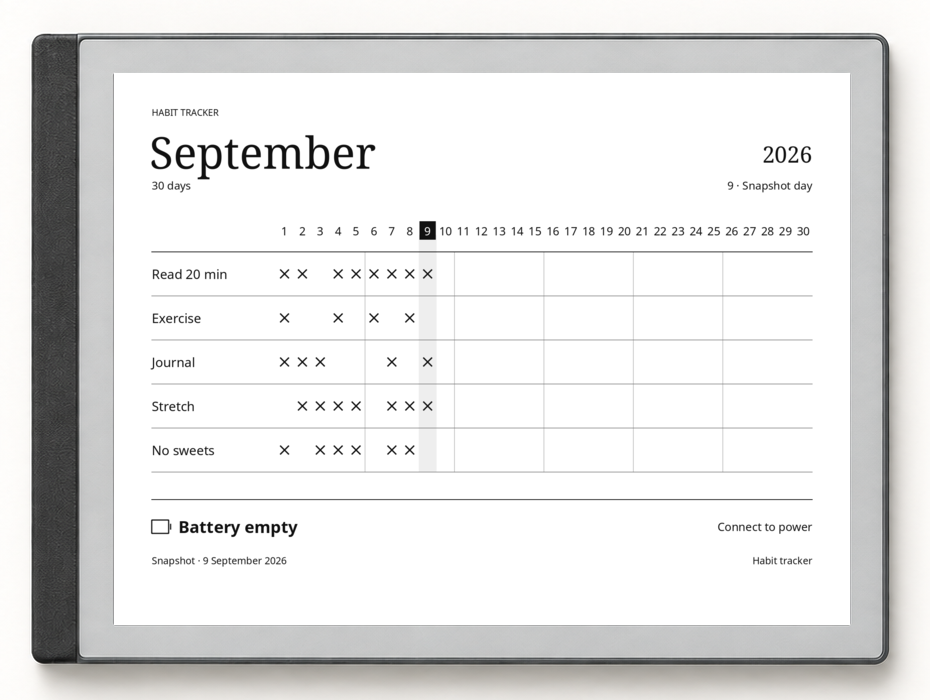
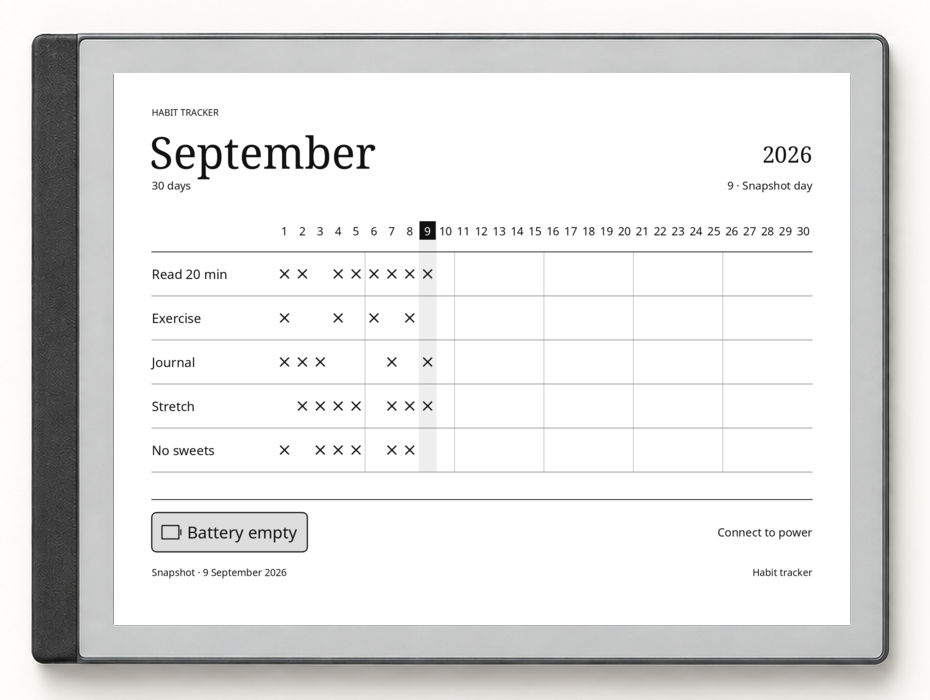
refine(remarkable): add quiet sans power-state badges
Use compact rounded badges with state-specific fills, regular-weight labels, and extra vertical padding. Refresh the shared renderer, host shim, and screenshots.

Changed region(s): [[0.1559, 0.72, 0.343, 0.84], [0.7796, 0.75, 0.8731, 0.84]]

diff --git a/apps/remarkable/src/js/SuspendDraw.js b/apps/remarkable/src/js/SuspendDraw.js
@@ -8,7 +8,7 @@ function computeSignature(habits, today) {
     const month = today.getMonth();
     const visible = habits.filter((h) => !h.isPrivate);
 
-    const parts = [`power-images-ledger-v1|${year}-${month}-${currentDay}`];
+    const parts = [`power-images-ledger-v2|${year}-${month}-${currentDay}`];
 
     for (let i = 0; i < visible.length; i++) {
         const h = visible[i];
@@ -69,26 +69,16 @@ function draw(
         today,
     );
     drawLine(ctx, 96, 1085, 1776, 1085, "#111111", 2);
-    drawStateIcon(ctx, state, 96, 1136);
-    drawText(
-        ctx,
-        states[state][0],
-        state === "empty" ? 164 : 152,
-        1154,
-        42,
-        "sans-serif",
-        "left",
-        true,
-    );
-    drawText(ctx, states[state][1], 1776, 1154, 29, "sans-serif", "right");
+    drawStateBadge(ctx, state, states[state][0]);
+    drawText(ctx, states[state][1], 1776, 1168, 29, "sans-serif", "right");
     drawText(
         ctx,
         `Snapshot · ${today.getDate()} ${monthTitle} ${today.getFullYear()}`,
         96,
-        1240,
+        1270,
         25,
     );
-    drawText(ctx, "Habit tracker", 1776, 1240, 25, "sans-serif", "right");
+    drawText(ctx, "Habit tracker", 1776, 1270, 25, "sans-serif", "right");
     ctx.restore();
 }
 
@@ -100,10 +90,10 @@ const drawText = (
     size,
     family = "sans-serif",
     align = "left",
-    bold = false,
+    color = "#111111",
 ) => {
-    ctx.fillStyle = "#111111";
-    ctx.font = `${bold ? "bold " : ""}${size}px ${family}`;
+    ctx.fillStyle = color;
+    ctx.font = `${size}px ${family}`;
     ctx.textAlign = align;
     ctx.fillText(value, x, y);
 };
@@ -228,10 +218,57 @@ const drawPolyline = (ctx, points) => {
     ctx.stroke();
 };
 
-const drawStateIcon = (ctx, state, x, y) => {
+const drawStateBadge = (ctx, state, label) => {
+    const background = { sleep: "#ffffff", off: "#111111", empty: "#dddddd" }[
+        state
+    ];
+    const foreground = state === "off" ? "#ffffff" : "#111111";
+    const iconWidth = state === "empty" ? 50 : 38;
+    const padding = 26;
+    const gap = 14;
+    const left = 96;
+    const top = 1118;
+    const height = 100;
+    const centerY = top + height / 2;
+    ctx.font = "42px sans-serif";
+    const width = padding * 2 + iconWidth + gap + ctx.measureText(label).width;
+    roundedRectangle(ctx, left, top, width, height, 14);
+    ctx.fillStyle = background;
+    ctx.fill();
+    ctx.strokeStyle = "#111111";
+    ctx.lineWidth = 3;
+    ctx.stroke();
+    drawStateIcon(ctx, state, left + padding, centerY - 18, foreground);
+    drawText(
+        ctx,
+        label,
+        left + padding + iconWidth + gap,
+        centerY,
+        42,
+        "sans-serif",
+        "left",
+        foreground,
+    );
+};
+
+const roundedRectangle = (ctx, x, y, width, height, radius) => {
+    ctx.beginPath();
+    ctx.moveTo(x + radius, y);
+    ctx.lineTo(x + width - radius, y);
+    ctx.quadraticCurveTo(x + width, y, x + width, y + radius);
+    ctx.lineTo(x + width, y + height - radius);
+    ctx.quadraticCurveTo(x + width, y + height, x + width - radius, y + height);
+    ctx.lineTo(x + radius, y + height);
+    ctx.quadraticCurveTo(x, y + height, x, y + height - radius);
+    ctx.lineTo(x, y + radius);
+    ctx.quadraticCurveTo(x, y, x + radius, y);
+    ctx.closePath();
+};
+
+const drawStateIcon = (ctx, state, x, y, color) => {
     ctx.save();
     ctx.translate(x, y);
-    ctx.strokeStyle = "#111111";
+    ctx.strokeStyle = color;
     ctx.lineWidth = 3;
     if (state === "sleep") {
         const outer = circlePoints(18, 18, 18, 0.465, 4.248);
@@ -242,10 +279,10 @@ const drawStateIcon = (ctx, state, x, y) => {
             ctx,
             circlePoints(18, 20, 16, -Math.PI / 3, (Math.PI * 4) / 3),
         );
-        drawLine(ctx, 18, 0, 18, 19, "#111111", 3);
+        drawLine(ctx, 18, 0, 18, 19, color, 3);
     } else {
         ctx.strokeRect(0, 1, 43, 34);
-        drawLine(ctx, 48, 12, 48, 24, "#111111", 3);
+        drawLine(ctx, 48, 12, 48, 24, color, 3);
     }
     ctx.restore();
 };

diff --git a/apps/remarkable/tests/tst_suspenddraw.qml b/apps/remarkable/tests/tst_suspenddraw.qml
@@ -98,6 +98,7 @@ TestCase {
             const context = {
                 fillRect: () => {}, strokeRect: () => {}, save: () => {}, restore: () => {},
                 translate: () => {}, rotate: () => {}, scale: () => {}, beginPath: () => {},
+                quadraticCurveTo: () => {}, closePath: () => {}, fill: () => {},
                 moveTo: () => {}, lineTo: () => {}, stroke: () => { strokes++; },
                 measureText: value => ({ width: value.length * 16 }),
                 fillText: value => labels.push(value)

diff --git a/apps/remarkable/tools/suspend-writer/main.cpp b/apps/remarkable/tools/suspend-writer/main.cpp
@@ -103,6 +103,11 @@ public:
     Q_INVOKABLE void beginPath() { m_path = QPainterPath(); }
     Q_INVOKABLE void moveTo(double x, double y) { m_path.moveTo(x, y); }
     Q_INVOKABLE void lineTo(double x, double y) { m_path.lineTo(x, y); }
+    Q_INVOKABLE void quadraticCurveTo(double controlX, double controlY, double x, double y) {
+        m_path.quadTo(controlX, controlY, x, y);
+    }
+    Q_INVOKABLE void closePath() { m_path.closeSubpath(); }
+    Q_INVOKABLE void fill() { m_painter->fillPath(m_path, QColor(m_fillStyle)); }
     Q_INVOKABLE void stroke() {
         QPen pen{QColor(m_strokeStyle)};
         pen.setWidthF(m_lineWidth);

diff --git a/apps/remarkable/README.md b/apps/remarkable/README.md
@@ -90,7 +90,7 @@ This app is the QML scene. It's packaged as a Qt binary resource (`.rcc`) plus a
 
 ### Interesting bits
 
-**Power-state-image rendering.** The app draws three 1404×1872 PNGs from one current-month snapshot: `/usr/share/remarkable/suspended.png`, `poweroff.png`, and `batteryempty.png`. Each contains the landscape Quiet ledger layout and its own state icon and instruction. The icon has the label's visible height and a compact gap; the battery is wider to retain that same height. No O marks are added, matching the previous suspend renderer. Long names are ellipsized, and larger rosters use tighter rows to keep the state footer clear.
+**Power-state-image rendering.** The app draws three 1404×1872 PNGs from one current-month snapshot: `/usr/share/remarkable/suspended.png`, `poweroff.png`, and `batteryempty.png`. Each contains the landscape Quiet ledger layout and its own state icon and instruction. The icon and regular-weight sans-serif label sit in a softly rounded badge with generous vertical padding. Sleeping uses a white badge with a black outline, powered off uses a black badge with white content, and battery empty uses a gray badge with a black outline. The rest of every screen stays white. Icons align with the label's visible height, with a compact gap; the battery is wider to retain that same height. No O marks are added, matching the previous suspend renderer. Long names are ellipsized, and larger rosters use tighter rows to keep the state footer clear.
 
 All originals must be readable and backed up to their adjacent `.bak` files before the first write. Existing backups are reused, including the original suspend backup on upgrade. Backup, restore, and save failures name the affected path. Disabling preflights every backup, restores all three, then commits the setting off; a failed restore pauses further rendering until retried. Uninstalling does not restore images: disable the feature successfully first. An already-enabled suspend setting now covers all three images, without changing the persisted settings shape.
 

diff --git a/apps/remarkable/tools/suspend-writer/README.md b/apps/remarkable/tools/suspend-writer/README.md
@@ -205,5 +205,5 @@ The renderer now uses Quiet ledger with aligned, compact state icons. Add `--sta
 `--out` still chooses a single output file. This tool previews images only and does not perform
 backup/restore or install them. The QML app owns the three-target write lifecycle.
 
-Rebuild this tool after the renderer update: its Canvas shim now supports paths, scaling, text
+Rebuild this tool after the renderer update: its Canvas shim now supports filled rounded paths, scaling, text
 measurement, and right-aligned labels. Copying the updated JavaScript beside an old binary is not sufficient.
